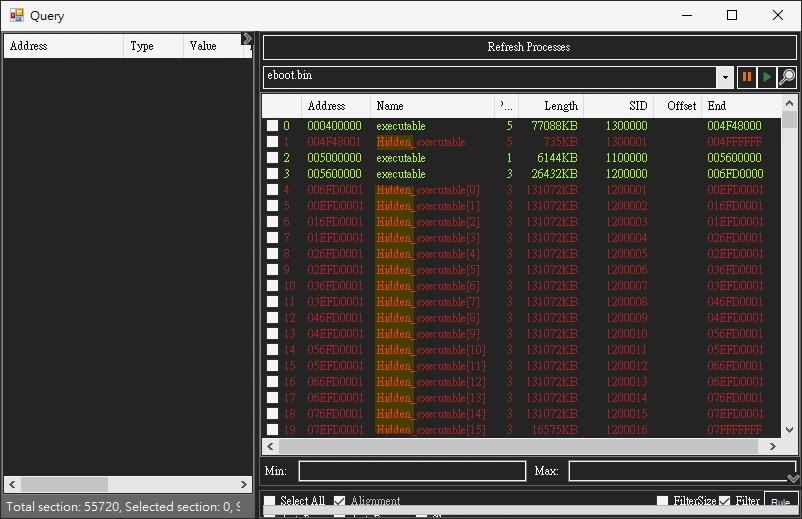
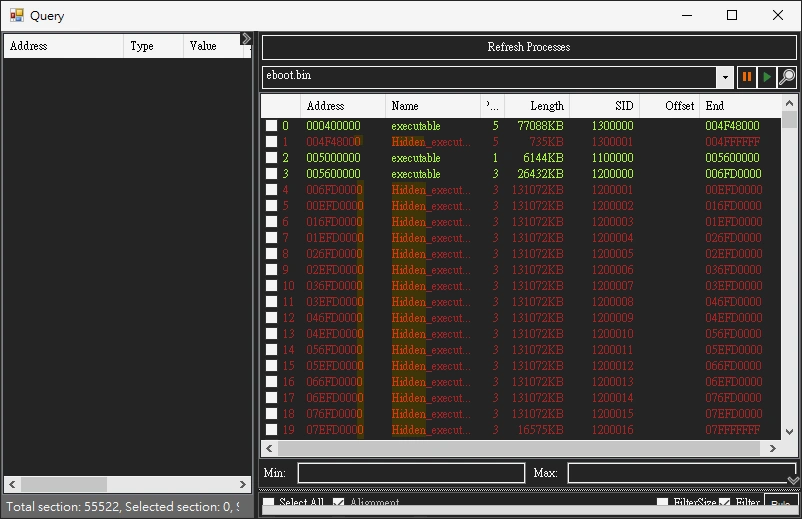
Added support for "Jump to Address" in the HexEditor's context menu.
Enter an address, and it will automatically navigate to that location.

Added support for "Jump to Offset" in the HexEditor's context menu. Enter an offset value from the current address, and it will navigate to the address relative to the current position. Negative offsets are also accepted.

Added support for setting the starting address of HiddenSection as the end address of the previous section. avoiding starting addresses that do not end with an integer 0. You can enable/disable this by setting the `HiddenSectionStartAtPreviousEnd` option, which is enabled by default.

Changed region(s): [[0.2805, 0.0617, 1.0, 1.0], [0.4988, 0.9865, 0.5299, 1.0], [0.1247, 0.9557, 0.1559, 0.9865]]

diff --git a/PS4CheaterNeo/HexEditor.cs b/PS4CheaterNeo/HexEditor.cs
@@ -220,6 +220,51 @@ namespace PS4CheaterNeo
 
         private void HexViewMenuCopyAddress_Click(object sender, EventArgs e) => Clipboard.SetText(string.Format("{0:X9}", HexView.SelectionStart + HexView.LineInfoOffset));
 
+        private void HexViewMenuJumpToAddress_Click(object sender, EventArgs e)
+        {
+            string inputValue = "";
+            if (PS4CheaterNeo.InputBox.Show("Hex View", "Please enter the memory address(hex) you'd like to jump to:", ref inputValue) != DialogResult.OK) return;
+
+            inputValue = Regex.Replace(inputValue, "[^0-9a-fA-F]", "");
+            ulong address = ulong.Parse(inputValue, NumberStyles.HexNumber);
+
+            HexViewJumpToAddress(address);
+        }
+
+        private void HexViewMenuJumpToOffset_Click(object sender, EventArgs e)
+        {
+            string inputValue = "";
+            if (PS4CheaterNeo.InputBox.Show("Hex View", "Please enter the relative offset(hex) you'd like to jump to from the current memory address:", ref inputValue) != DialogResult.OK) return;
+
+            bool isNegative = false;
+            inputValue = Regex.Replace(inputValue, "[^-0-9a-fA-F]", "");
+            if (inputValue.StartsWith("-")) isNegative = true;
+            inputValue = Regex.Replace(inputValue, "[^0-9a-fA-F]", "");
+            ulong offset = ulong.Parse(inputValue, NumberStyles.HexNumber);
+            ulong address = section.Start + (ulong)HexView.SelectionStart;
+            address = isNegative ? address - offset : address + offset;
+
+            HexViewJumpToAddress(address);
+        }
+
+        private void HexViewJumpToAddress(ulong address)
+        {
+            if (address < section.Start || address > section.Start + (uint)section.Length)
+            {
+                (int index, Section sectionNew) = sectionTool.GetIndexInSectionSortByAddr(address, sections);
+                if (index == -1) return;
+
+                HexView.SelectionStart = 0;
+                SectionBox.SelectedIndexChanged -= new EventHandler(SectionBox_SelectedIndexChanged);
+                SectionBox.SelectedIndex = index;
+                InitPageData(sectionNew, (int)(address - sectionNew.Start));
+                SectionBox.SelectedIndexChanged += new EventHandler(SectionBox_SelectedIndexChanged);
+            }
+            HexView.SelectionLength = 4;
+            HexView.SelectionStart = (long)(address - section.Start);
+            HexView.SelectionLength = 4;
+        }
+
         /// <summary>
         /// BaseAddr = HexView.SelectionStart + HexView.LineInfoOffset - (long)section.Start
         /// </summary>
@@ -312,17 +357,17 @@ namespace PS4CheaterNeo
             if (InfoBoxB.Text.Length % 8 != 0) InfoBoxB.Text = InfoBoxB.Text.PadLeft(InfoBoxB.Text.Length + 8 - InfoBoxB.Text.Length % 8, '0');
             for (int i = InfoBoxB.Text.Length - 8; i >= 8; i -= 8) InfoBoxB.Text = InfoBoxB.Text.Insert(i, ",");
 
-            InfoBox0.Text  = string.Format(@"{0:X} | {1:X}+{2:X}", HexView.SelectionStart + HexView.LineInfoOffset, HexView.SelectionStart + HexView.LineInfoOffset - (long)section.Start, section.Start);
+            InfoBox0.Text   = string.Format(@"{0:X} | {1:X}+{2:X}", HexView.SelectionStart + HexView.LineInfoOffset, HexView.SelectionStart + HexView.LineInfoOffset - (long)section.Start, section.Start);
             InfoBox1U.Text  = string.Format("{0:N0} | ", info1) + InfoBox1U.Text;
             InfoBox2U.Text  = string.Format("{0:N0} | ", info2) + InfoBox2U.Text;
             InfoBox3U.Text  = string.Format("{0:N0} | ", info4) + InfoBox3U.Text;
             InfoBox4U.Text  = string.Format("{0:N0} | ", info8) + InfoBox4U.Text;
-            InfoBoxF.Text  = string.Format("{0}", (double)infoF); //float which maps to System.Single simply does not have enough precision／https://stackoverflow.com/a/69849989
-            InfoBoxD.Text  = string.Format("{0}", infoD);
-            InfoBox1S.Text = string.Format("{0:N0} | ", info1S) + InfoBox1S.Text;
-            InfoBox2S.Text = string.Format("{0:N0} | ", info2S) + InfoBox2S.Text;
-            InfoBox3S.Text = string.Format("{0:N0} | ", info4S) + InfoBox3S.Text;
-            InfoBox4S.Text = string.Format("{0:N0} | ", info8S) + InfoBox4S.Text;
+            InfoBoxF.Text   = string.Format("{0}", (double)infoF); //float which maps to System.Single simply does not have enough precision／https://stackoverflow.com/a/69849989
+            InfoBoxD.Text   = string.Format("{0}", infoD);
+            InfoBox1S.Text  = string.Format("{0:N0} | ", info1S) + InfoBox1S.Text;
+            InfoBox2S.Text  = string.Format("{0:N0} | ", info2S) + InfoBox2S.Text;
+            InfoBox3S.Text  = string.Format("{0:N0} | ", info4S) + InfoBox3S.Text;
+            InfoBox4S.Text  = string.Format("{0:N0} | ", info8S) + InfoBox4S.Text;
 
             if (SplitContainer2.Panel1Minimized)
             {

diff --git a/PS4CheaterNeo/HexEditor.Designer.cs b/PS4CheaterNeo/HexEditor.Designer.cs
@@ -37,6 +37,8 @@
             this.HexViewMenuGroupSize = new System.Windows.Forms.ToolStripComboBox();
             this.HexViewMenuSeparator1 = new System.Windows.Forms.ToolStripSeparator();
             this.HexViewMenuCopyAddress = new System.Windows.Forms.ToolStripMenuItem();
+            this.HexViewMenuJumpToAddress = new System.Windows.Forms.ToolStripMenuItem();
+            this.HexViewMenuJumpToOffset = new System.Windows.Forms.ToolStripMenuItem();
             this.SplitContainer2 = new PS4CheaterNeo.CollapsibleSplitContainer();
             this.TableLayoutPanel1 = new System.Windows.Forms.TableLayoutPanel();
             this.SectionBox = new System.Windows.Forms.ComboBox();
@@ -172,9 +174,11 @@
             this.HexViewMenuByteGroup,
             this.HexViewMenuGroupSize,
             this.HexViewMenuSeparator1,
-            this.HexViewMenuCopyAddress});
+            this.HexViewMenuCopyAddress,
+            this.HexViewMenuJumpToAddress,
+            this.HexViewMenuJumpToOffset});
             this.HexViewMenu.Name = "HexViewMenu";
-            this.HexViewMenu.Size = new System.Drawing.Size(211, 108);
+            this.HexViewMenu.Size = new System.Drawing.Size(211, 130);
             // 
             // HexViewMenuByteGroup
             // 
@@ -201,6 +205,20 @@
             this.HexViewMenuCopyAddress.Size = new System.Drawing.Size(210, 22);
             this.HexViewMenuCopyAddress.Text = "Copy Address";
             this.HexViewMenuCopyAddress.Click += new System.EventHandler(this.HexViewMenuCopyAddress_Click);
+            // 
+            // HexViewMenuJumpToAddress
+            // 
+            this.HexViewMenuJumpToAddress.Name = "HexViewMenuJumpToAddress";
+            this.HexViewMenuJumpToAddress.Size = new System.Drawing.Size(210, 22);
+            this.HexViewMenuJumpToAddress.Text = "Jump to Address";
+            this.HexViewMenuJumpToAddress.Click += new System.EventHandler(this.HexViewMenuJumpToAddress_Click);
+            // 
+            // HexViewMenuJumpToOffset
+            // 
+            this.HexViewMenuJumpToOffset.Name = "HexViewMenuJumpToOffset";
+            this.HexViewMenuJumpToOffset.Size = new System.Drawing.Size(210, 22);
+            this.HexViewMenuJumpToOffset.Text = "Jump to Offset";
+            this.HexViewMenuJumpToOffset.Click += new System.EventHandler(this.HexViewMenuJumpToOffset_Click);
             // 
             // SplitContainer2
             // 
@@ -1082,5 +1100,7 @@
         private System.Windows.Forms.CheckBox LittleEndianBox;
         private System.Windows.Forms.ComboBox SectionBox;
         private System.Windows.Forms.ToolStripMenuItem HexViewMenuCopyAddress;
+        private System.Windows.Forms.ToolStripMenuItem HexViewMenuJumpToAddress;
+        private System.Windows.Forms.ToolStripMenuItem HexViewMenuJumpToOffset;
     }
 }

diff --git a/PS4CheaterNeo/common/SectionTool.cs b/PS4CheaterNeo/common/SectionTool.cs
@@ -356,13 +356,15 @@ namespace PS4CheaterNeo
         {
             StringBuilder errors = new StringBuilder();
             Section[] sections = GetSectionSortByAddr();
+            bool HiddenSectionStartAtPreviousEnd = Properties.Settings.Default.HiddenSectionStartAtPreviousEnd.Value;
+            uint chkPlus1 = HiddenSectionStartAtPreviousEnd ? 0u : 1u;
             for (int sIdx  = 0; sIdx < sections.Length; sIdx++)
             {
                 try
                 {
                     Section section1 = sections[sIdx];
                     ulong section1End = section1.Start + (uint)section1.Length;
-                    ulong sectionNewStart = section1End + 1;
+                    ulong sectionNewStart = section1End + chkPlus1;
                     ulong bufferLength = 1024 * 1024 * 128; //128M
                     int idx = 0;
                     string name = section1.Name;
@@ -571,6 +573,33 @@ namespace PS4CheaterNeo
             return 0;
         }
 
+        /// <summary>
+        /// Query the Section index position corresponding to the Section array obtained from GetSectionSortByAddr using memory addresses as keys.
+        /// </summary>
+        /// <param name="address">query address</param>
+        /// <param name="sectionsSortByAddr"></param>
+        /// <returns>section array index</returns>
+        public (int, Section) GetIndexInSectionSortByAddr(ulong address, Section[] sectionsSortByAddr)
+        {
+            if (MemoryStart > address || MemoryEnd < address) return (-1, null);
+
+            if (sectionsSortByAddr == null || sectionsSortByAddr.Length == 0) return (-1, null);
+
+            int low = 0;
+            int high = sectionsSortByAddr.Length - 1;
+            int middle;
+
+            while (low <= high)
+            {
+                middle = (low + high) / 2;
+                Section section = sectionsSortByAddr[middle];
+                if (address >= section.Start + (uint)section.Length) low = middle + 1;   //find the second half of the array
+                else if (address < section.Start) high = middle - 1;  //find the first half of the array
+                else return (middle, section);  //return index of the specified address
+            }
+
+            return (-1, null);
+        }
 
         /// <summary>
         /// get Sections sorted by address

diff --git a/PS4CheaterNeo/Properties/Settings.Designer.cs b/PS4CheaterNeo/Properties/Settings.Designer.cs
@@ -469,6 +469,18 @@ namespace PS4CheaterNeo.Properties {
         
         [global::System.Configuration.UserScopedSettingAttribute()]
         [global::System.Diagnostics.DebuggerNonUserCodeAttribute()]
+        [global::System.Configuration.DefaultSettingValueAttribute(@"True|3_Query|5_SectionView|Determine whether to enable the starting address of the Hidden Section to be the end address of the previous section. \nIf not enabled, the starting address will be the end address of the previous section plus 1. \nDefault enable")]
+        public global::OptionTreeView.Option<bool> HiddenSectionStartAtPreviousEnd {
+            get {
+                return ((global::OptionTreeView.Option<bool>)(this["HiddenSectionStartAtPreviousEnd"]));
+            }
+            set {
+                this["HiddenSectionStartAtPreviousEnd"] = value;
+            }
+        }
+        
+        [global::System.Configuration.UserScopedSettingAttribute()]
+        [global::System.Diagnostics.DebuggerNonUserCodeAttribute()]
         [global::System.Configuration.DefaultSettingValueAttribute("False|4_HexEditor|Hex|Determines whether to enable Auto Refresh in HexEditor. \\nD" +
             "efault disabled")]
         public global::OptionTreeView.Option<bool> AutoRefresh {

diff --git a/PS4CheaterNeo/Properties/AssemblyInfo.cs b/PS4CheaterNeo/Properties/AssemblyInfo.cs
@@ -32,5 +32,5 @@ using System.Runtime.InteropServices;
 // You can specify all the values or you can default the Build and Revision Numbers
 // by using the '*' as shown below:
 // [assembly: AssemblyVersion("1.0.*")]
-[assembly: AssemblyVersion("0.9.9.8")]
-[assembly: AssemblyFileVersion("0.9.9.8")]
+[assembly: AssemblyVersion("0.9.9.9")]
+[assembly: AssemblyFileVersion("0.9.9.9")]

diff --git a/README.md b/README.md
@@ -2,7 +2,7 @@
 
 PS4CheaterNeo is a program to find game cheat codes, and it is based on [`ps4debug`](https://github.com/jogolden/ps4debug) and [`.Net Framework 4.8`](https://support.microsoft.com/en-us/topic/microsoft-net-framework-4-8-offline-installer-for-windows-9d23f658-3b97-68ab-d013-aa3c3e7495e0).
 
-Currently in `version 0.9.9.8-beta`
+Currently in `version 0.9.9.9-beta`
 
 
 ## Table of Contents
@@ -35,6 +35,7 @@ Currently in `version 0.9.9.8-beta`
   * [Hex Editor](#hex-editor)
     + [Hex editor: displaying decimal, float, and double](#hex-editor-displaying-decimal-float-and-double)
     + [Hex editor: Section switching ComboBox](#hex-editor-section-switching-combobox)
+    + [Hex editor: Jump to Address／Offset](#hex-editor-jump-to-addressoffset)
   * [Pointer finder](#pointer-finder)
   * [Section](#section)
     + [Section ID](#section-id)
@@ -229,6 +230,8 @@ from the smallest Start address to the largest. If the memory addresses of two s
 so now this option is not limited by the int32 upper limit, and when initializing the last hidden section, it will be automatically processed in segments according to the buffer length (128MB). (0.9.9.8)  
 - Previously, when detecting hidden sections, there was no segmentation processing for each section.  
 Now, each detected hidden section is segmented according to the buffer length (128M), following the standard section processing method. This helps reduce memory usage during Query scanning. (0.9.9.8)  
+- Added support for setting the starting address of HiddenSection as the end address of the previous section.  
+avoiding starting addresses that do not end with an integer 0. You can enable/disable this by setting the `HiddenSectionStartAtPreviousEnd` option, which is enabled by default. (0.9.9.9)
 
 ![query_DetectHiddenSection](assets/query_DetectHiddenSection.webp)
 
@@ -393,6 +396,14 @@ Range: -0x8000000000000000 to 0x7FFFFFFFFFFFFFFF (-9,223,372,036,854,775,808 to 
 ![hexeditor_sectionSwitching1](assets/hexeditor_sectionSwitching1.webp)
 ![hexeditor_sectionSwitching2](assets/hexeditor_sectionSwitching2.webp)
 
+### Hex editor: Jump to Address／Offset
+
+- Added support for "Jump to Address" in the HexEditor's context menu. Enter an address, and it will automatically navigate to that location. (0.9.9.9)
+- Added support for "Jump to Offset" in the HexEditor's context menu. Enter an offset value from the current address, and it will navigate to the address relative to the current position. Negative offsets are also accepted. (0.9.9.9)
+
+![hexeditor_contextMenu](assets/hexeditor_contextMenu.webp)
+![hexeditor_jumpAddress](assets/hexeditor_jumpAddress.webp)
+![hexeditor_jumpOffset](assets/hexeditor_jumpOffset.webp)
 
 
 ## Pointer finder	[🔼](#table-of-contents)
@@ -550,6 +561,8 @@ Determine whether to enable the `FullRowSelect` feature in the `SectionView` of 
 Determine whether to enable automatic detection of hidden sections. This is currently an experimental feature. Default disabled. (0.9.9.7)  
 - `LastHiddenSectionLengthHex`:  
 Specify the Hex length of the last hidden section. This only takes effect when `SectionViewDetectHiddenSection` is enabled. Default value is 0x40000000. (0.9.9.7)  
+- `HiddenSectionStartAtPreviousEnd`:  
+Determine whether to enable the starting address of the Hidden Section to be the end address of the previous section. If not enabled, the starting address will be the end address of the previous section plus 1. Default enable. (9.9.9)  
 
 ### HexEditor  
 - `AutoRefresh`:  
